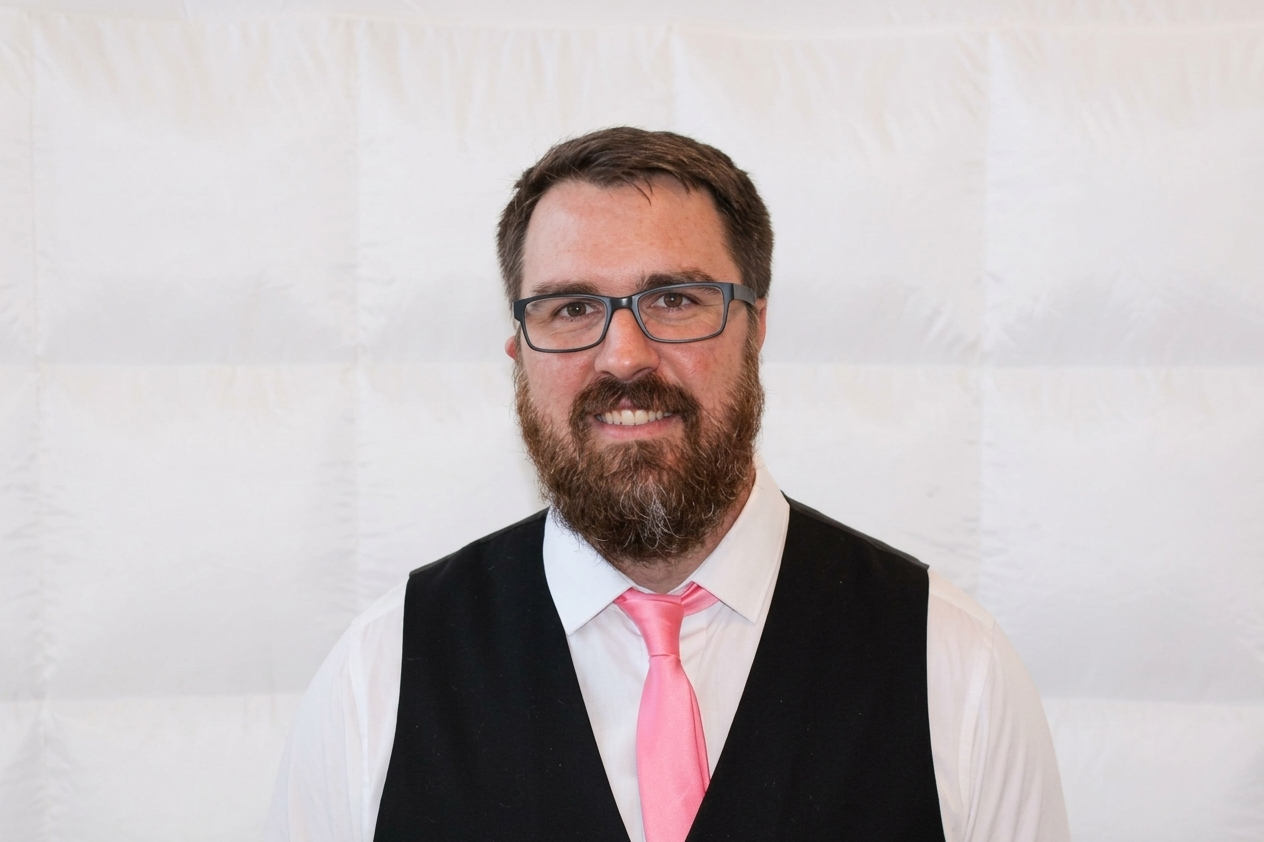
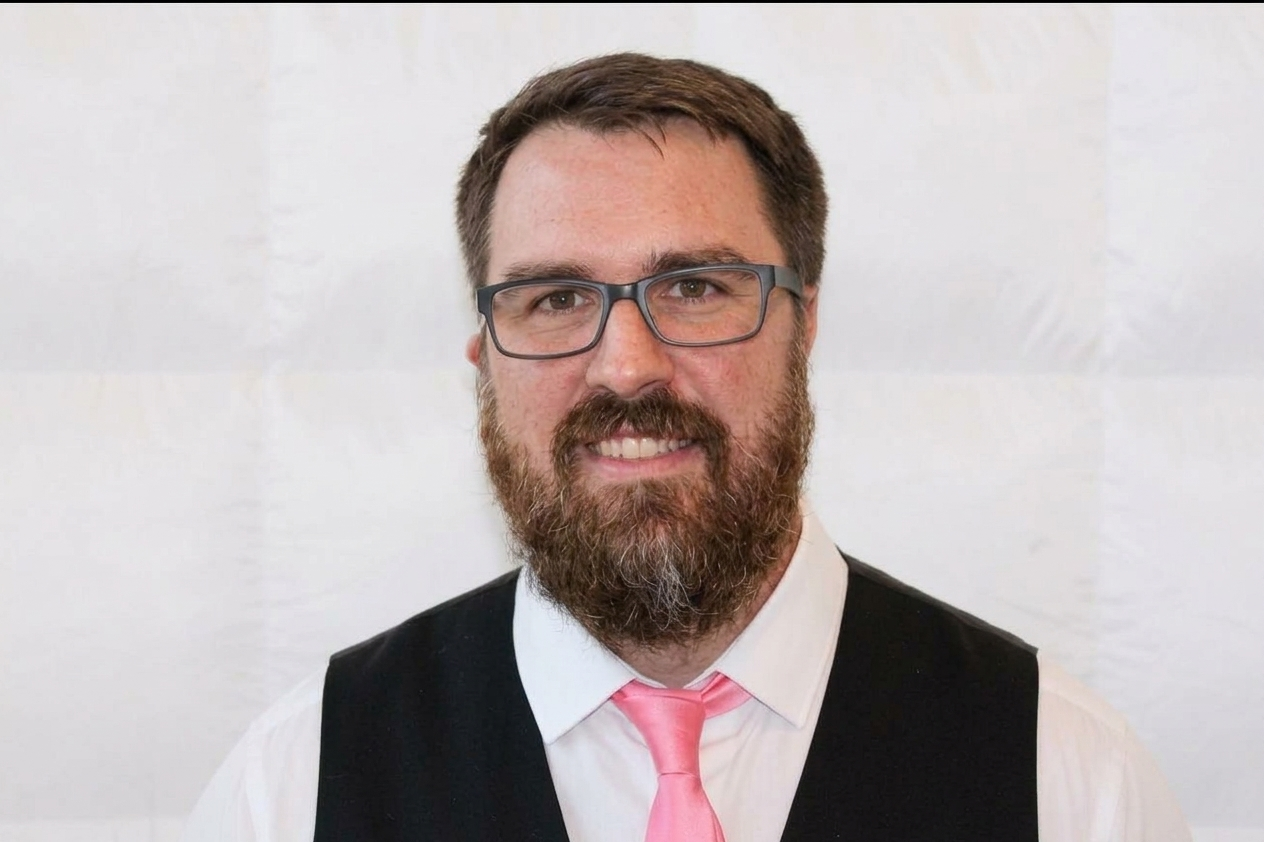
update content

Changed region(s): [[0.2468, 0.0618, 0.8331, 1.0], [0.0, 0.0, 1.0, 0.0309]]

diff --git a/application/templates/ancillary/resume_assignment.html b/application/templates/ancillary/resume_assignment.html
@@ -164,11 +164,6 @@
       padding: 0;
     }
 
-    .contact-link.icon-only .contact-icon {
-      width: 19px;
-      height: 19px;
-    }
-
     .contact-icon {
       width: 16px;
       height: 16px;
@@ -202,7 +197,7 @@
       aspect-ratio: 4 / 5;
       display: block;
       object-fit: cover;
-      object-position: center;
+      object-position: 50% 25%;
       margin: 0 auto 22px;
       border-radius: 10px;
       background: linear-gradient(145deg, #dceafa, #c5daf3);
@@ -271,35 +266,6 @@
       max-width: 760px;
       margin-bottom: 28px;
       color: var(--muted);
-    }
-
-    .research-grid {
-      display: grid;
-      grid-template-columns: repeat(2, minmax(0, 1fr));
-      gap: 18px;
-    }
-
-    .research-card {
-      padding: 23px;
-      border: 1px solid var(--border);
-      border-radius: 11px;
-      background: var(--surface);
-    }
-
-    .research-card h3 {
-      margin-block: 10px 8px;
-      font-size: 1.12rem;
-    }
-
-    .research-card p {
-      margin-bottom: 0;
-      color: var(--muted);
-      font-size: 0.92rem;
-    }
-
-    .card-icon {
-      color: var(--blue);
-      font-size: 1.45rem;
     }
 
     .work-list { display: grid; gap: 15px; }
@@ -419,27 +385,20 @@
       .container { width: min(100% - 36px, var(--max-width)); }
       .nav { min-height: 68px; }
       .nav-links { gap: 14px; font-size: 0.82rem; }
-
     
-    .hero {
-      padding-block: 52px 44px;
-      grid-template-columns: 1fr;
-      gap: 30px;
-    }
+      .hero {
+        padding-block: 52px 44px;
+        grid-template-columns: 1fr;
+        gap: 30px;
+      }
 
-    .hero-copy {
-      order: 2;
-    }
-
-    .profile-card {
-      order: 1;
-    }
+      .hero-copy { order: 2; }
+      .profile-card { order: 1; }
 
       h1 { font-size: clamp(2.35rem, 9vw, 3.4rem); }
       .profile-card { max-width: 480px; }
       .profile-photo { aspect-ratio: 16 / 9; }
       .section { padding-block: 44px; }
-      .research-grid { grid-template-columns: 1fr; }
     }
 
     @media (max-width: 440px) {
@@ -480,8 +439,8 @@
 
       <div class="nav-links">
         <a href="#about">About</a>
-        <a href="#research">Research</a>
-        <a href="#work">Projects</a>
+        <a href="#research">Graduate Research</a>
+        <a href="#experience">Experience & Projects</a>
         <a href="#contact">Contact</a>
       </div>
     </nav>
@@ -499,20 +458,13 @@
         <p class="hero-subtitle">M.S. Computer Science Student at UMBC</p>
 
         <p>
-          I'm a computer science graduate student at the University of
-          Maryland, Baltimore County, interested in artificial intelligence,
-          human-computer interaction, and the ways technology shapes how
-          people think, communicate, and work.
-        </p>
-
-        <p>
-          My current research explores two questions: how the evidence
-          presented to language models affects the reliability of their
-          answers, and whether AI-generated images can help people build
-          connections through conversation. Before graduate school, I worked
-          as a software engineer. My undergraduate experience included
-          applying machine-learning algorithms to biological data 
-          and developing a solution to a platform-security problem involving TPM 2.0.
+          I am a Master's student in Computer Science at UMBC exploring how artificial 
+          intelligence can mediate and support human communication. Rather than using AI 
+          to replace human interaction, my research focuses on designing generative tools
+          and interactive games to help people build social connections. Prior to graduate 
+          school, I worked for four years as a software engineer at Assurant. My background
+          building web and mobile applications directly informs my current work in developing
+          and deploying interactive research prototypes.
         </p>
 
         <div class="contact-links">
@@ -581,10 +533,9 @@
             CV
           </a>
 
-          <a class="contact-link" href="#work">
-            Projects ↓
+          <a class="contact-link" href="#experience">
+            Experience ↓
           </a>
-
         </div>
       </div>
 
@@ -603,62 +554,53 @@
 
         <div class="profile-label">Research interests</div>
         <div class="interest-list">
-          <span class="interest">Computational Social Science</span>
+          <span class="interest">Human-Computer Interaction</span>
           <span class="interest">Software Systems</span>
           <span class="interest">Trustworthy AI</span>
-          <span class="interest">Human-Computer Interaction</span>
+          <span class="interest">Computational Social Science</span>
         </div>
       </aside>
     </section>
 
+    <!-- Graduate Research Section (Top Priority) -->
     <section class="section" id="research">
       <div class="section-heading">
         <span class="section-marker"></span>
-        <h2>Research Interests</h2>
+        <h2>Graduate Research</h2>
       </div>
 
       <p class="section-intro">
-        I'm interested in how AI systems communicate information, how people
-        decide whether to trust their outputs, and how interactive technologies
-        can support meaningful experiences between people.
-      </p>
-
-      <div class="research-grid">
-        <article class="research-card">
-          <div class="card-icon" aria-hidden="true">◇</div>
-          <h3>Trustworthy AI</h3>
-          <p>
-            Studying the reliability of AI-generated answers, including how
-            supporting evidence, irrelevant information, and conflicting
-            sources influence factual accuracy of the model.
-          </p>
-        </article>
-
-        <article class="research-card">
-          <div class="card-icon" aria-hidden="true">◎</div>
-          <h3>Human-AI Interaction</h3>
-          <p>
-            Exploring how AI can become part of human-centered experiences,
-            particularly tools that encourage conversation, help people
-            discover common ground, and support social connection.
-          </p>
-        </article>
-      </div>
-    </section>
-
-    <section class="section" id="work">
-      <div class="section-heading">
-        <span class="section-marker"></span>
-        <h2>Research and Projects</h2>
-      </div>
-
-      <p class="section-intro">
-        Research projects, academic work, and software engineering experience
-        spanning artificial intelligence, computer security, and application
-        development.
+        Current graduate research and project work at UMBC.
       </p>
 
       <div class="work-list">
+        <article class="work-card">
+          <div class="work-meta">
+            <span>Graduate Research · 2026</span>
+            <span class="status">In progress</span>
+          </div>
+
+          <h3>Using AI-Generated Images to Facilitate Social Connection</h3>
+
+          <p>
+            This project explores how generative AI can help strangers move 
+            past surface-level small talk and build meaningful connections. 
+            By transforming a participant’s lived experiences into a personalized 
+            visual artifact, the game asks their partner to interpret the image—creating 
+            an indirect mechanism for reciprocal self-disclosure and deeper conversation. 
+            Beyond evaluating initial connection and enjoyment, future work aims to 
+            incorporate adaptive feedback loops, allowing the system to dynamically 
+            tune game parameters (such as humor or vulnerability) to optimize social outcomes.
+          </p>
+
+          <div class="tags">
+            <span class="tag">Human-AI Interaction</span>
+            <span class="tag">AI-Mediated Communication</span>
+            <span class="tag">Generative AI</span>
+            <span class="tag">Adaptive Systems</span>
+          </div>
+        </article>
+
         <article class="work-card">
           <div class="work-meta">
             <span>Graduate Research · 2026</span>
@@ -684,29 +626,45 @@
             <span class="tag">Python</span>
           </div>
         </article>
+      </div>
+    </section>
 
+    <!-- Experience & Past Projects Section -->
+    <section class="section" id="experience">
+      <div class="section-heading">
+        <span class="section-marker"></span>
+        <h2>Experience & Past Projects</h2>
+      </div>
+
+      <p class="section-intro">
+        Professional software engineering background and undergraduate work.
+      </p>
+
+      <div class="work-list">
         <article class="work-card">
           <div class="work-meta">
-            <span>Graduate Research · 2026</span>
-            <span class="status">In progress</span>
+            <span>Professional Experience · 2022–2026</span>
+            <span>Software Engineering</span>
           </div>
 
-          <h3>Using AI-Generated Images to Facilitate Social Connection</h3>
+          <h3>Associate Software Engineer at Assurant</h3>
 
           <p>
-            This project investigates whether AI-generated images can help
-            strangers find common ground and start conversations. The
-            experimental prototype uses participant survey responses to
-            generate personalized visual artifacts that another participant
-            interprets. The study aims to evaluate participants' enjoyment,
-            perceived social connection, and willingness to interact again.
+            Developed and maintained production web and mobile applications
+            using Ruby on Rails, React, React Native, and TypeScript.
+            Worked on REST and GraphQL APIs, automated testing, code reviews,
+            and technical design. Improved pagination and client-side caching
+            in a high-volume workflow, reducing API requests by approximately
+            2,000-fold.
           </p>
 
           <div class="tags">
-            <span class="tag">Human-AI Interaction</span>
-            <span class="tag">Social Computing</span>
-            <span class="tag">Generative AI</span>
-            <span class="tag">Study Design</span>
+            <span class="tag">Ruby on Rails</span>
+            <span class="tag">React</span>
+            <span class="tag">React Native</span>
+            <span class="tag">TypeScript</span>
+            <span class="tag">API Design</span>
+            <span class="tag">Testing</span>
           </div>
         </article>
 
@@ -722,9 +680,10 @@
             Investigated how changes to a platform's configuration, such as
             firmware updates, can invalidate TPM 2.0 policies protecting
             sealed encryption keys. Studied policy mechanisms in the TPM
-            Software Stack and implemented a Policy OR approach in the
-            open-source Kmyth codebase, extending sealing and unsealing
-            functionality to accommodate multiple expected platform states.
+            Software Stack and implemented a Policy OR approach in Kmyth,
+            an open-source TPM 2.0 security framework maintained by the National
+            Security Agency, extending sealing functionality to accommodate
+            multiple expected platform states.
           </p>
 
           <div class="tags">
@@ -756,33 +715,6 @@
             <span class="tag">Classification</span>
             <span class="tag">Weka</span>
             <span class="tag">Bioinformatics</span>
-          </div>
-        </article>
-
-        <article class="work-card">
-          <div class="work-meta">
-            <span>Professional Experience · 2022–2026</span>
-            <span>Software Engineering</span>
-          </div>
-
-          <h3>Associate Software Engineer at Assurant</h3>
-
-          <p>
-            Developed and maintained production web and mobile applications
-            using Ruby on Rails, React, React Native, and TypeScript.
-            Worked on REST and GraphQL APIs, automated testing, code reviews,
-            and technical design. Improved pagination and client-side caching
-            in a high-volume workflow, reducing API requests by approximately
-            2,000-fold.
-          </p>
-
-          <div class="tags">
-            <span class="tag">Ruby on Rails</span>
-            <span class="tag">React</span>
-            <span class="tag">React Native</span>
-            <span class="tag">TypeScript</span>
-            <span class="tag">API Design</span>
-            <span class="tag">Testing</span>
           </div>
         </article>
       </div>
@@ -826,7 +758,7 @@
              target="_blank" rel="noopener noreferrer">
             <svg class="contact-icon" viewBox="0 0 24 24"
                  fill="currentColor" aria-hidden="true">
-              <path d="M20.45 2H3.55C2.69 2 2 2.68 2 3.52v16.96c0 .84.69 1.52 1.55 1.52h16.9c.86 0 1.55-.68 1.55-1.52V3.52c0-.84-.69-1.52-1.55-1.52ZM7.93 18.45H4.97V9h2.96v9.45ZM6.45 7.71a1.72 1.72 0 1 1 0-3.44 1.72 1.72 0 0 1 0 3.44Zm12 10.74H15.5v-4.6c0-1.1-.02-2.51-1.53-2.51-1.54 0-1.78 1.2-1.78 2.43v4.68H9.23V9h2.84v1.29h.04c.4-.75 1.36-1.54 2.8-1.54 3 0 3.54 1.97 3.54 4.53v5.17Z"/>
+              <path d="M20.45 2H3.55C2.69 2 2 2.68 2 3.52v16.96c0 .84.69 1.52 1.55 1.52h16.9c.86 0 1.55-.68 1.55-1.52V3.52c0-.84-.69-1.52-1.55-1.52ZM7.93 18.45H4.97V9h2.96v9.45slideDuplicate6.45 7.71a1.72 1.72 0 1 1 0-3.44 1.72 1.72 0 0 1 0 3.44Zm12 10.74H15.5v-4.6c0-1.1-.02-2.51-1.53-2.51-1.54 0-1.78 1.2-1.78 2.43v4.68H9.23V9h2.84v1.29h.04c.4-.75 1.36-1.54 2.8-1.54 3 0 3.54 1.97 3.54 4.53v5.17Z"/>
             </svg>
             LinkedIn
           </a>
